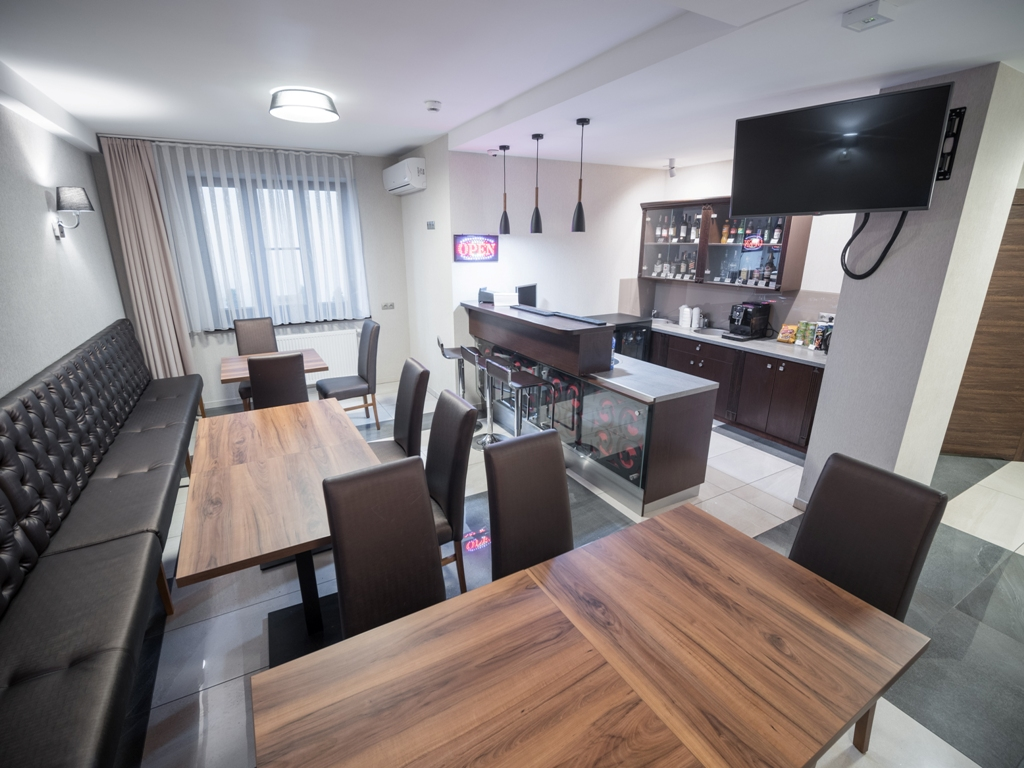
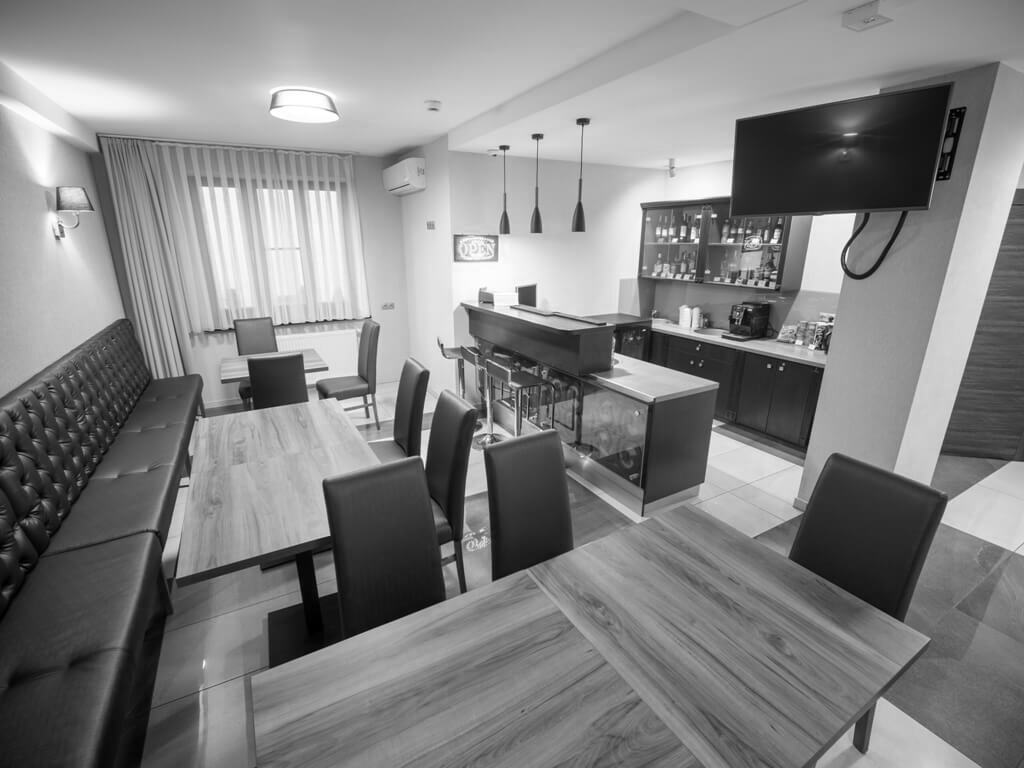
commit

diff --git a/src/pages/AboutHotel.js b/src/pages/AboutHotel.js
@@ -117,7 +117,6 @@ const AboutHotel = () => {
             </p>
           </div>
           <div className="hotelInNumbers">
-            <div className="backgroundhotelInNumbers"></div>
             <div className="inNumbers">
               <span data-aos="zoom-in-left">
                 <h3>37</h3>
@@ -292,11 +291,6 @@ const Wrapper = styled.div`
     @media (orientation: landscape) and (max-width: 800px) {
       height: 100vh;
     }
-  }
-  .backgroundhotelInNumbers {
-    height: 100%;
-    width: 100%;
-    filter: saturate(0);
   }
 `;
 

diff --git a/src/App.css b/src/App.css
@@ -197,14 +197,14 @@ body {
   background: rgba(0, 0, 0, 0.5);
 }
 
-.backgroundhotelInNumbers {
-  /* height: 100%;
-  width: 100%; */
+.hotelInNumbers {
+  height: 100%;
+  width: 100%;
   background-image: url(./images/recepcja&bar/BAR\ 002.jpg);
   background-size: cover;
   background-position: center;
   background-attachment: fixed;
-  /* filter: saturate(0); */
+
 }
 
 .airportTransferHeader {
